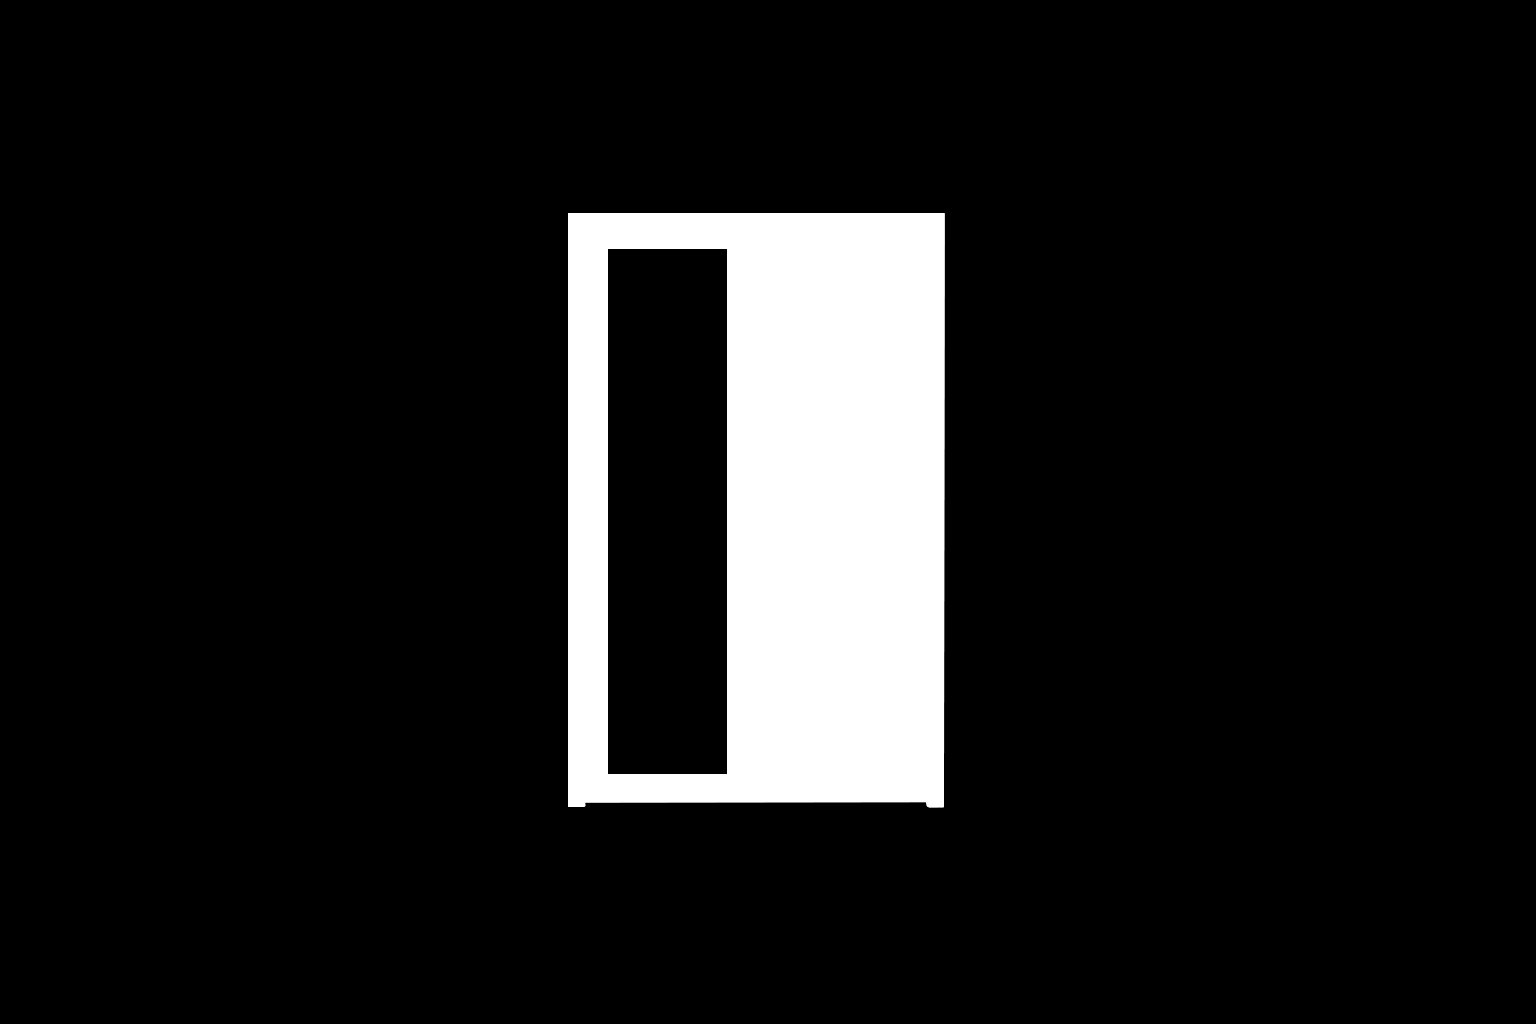
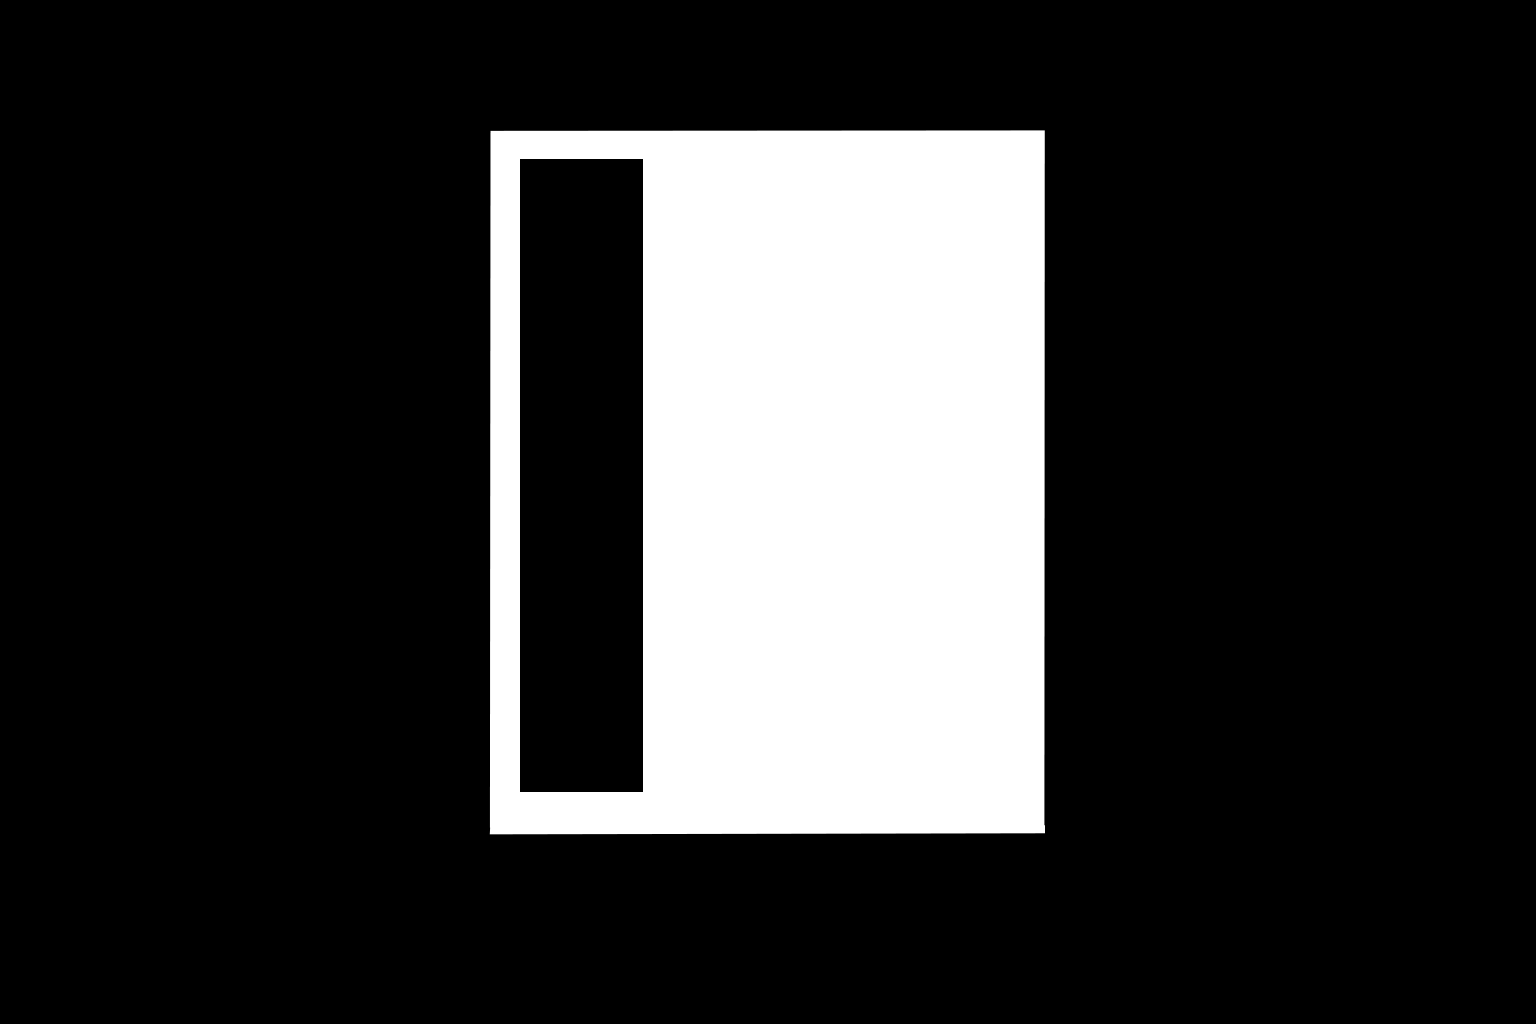
Updates to rendering mechanism and color comparer

Changed region(s): [[0.3125, 0.125, 0.6875, 0.8125]]

diff --git a/Services/ColorImageService.cs b/Services/ColorImageService.cs
@@ -16,7 +16,7 @@ public class ColorImageService : IColorImageService
     private readonly IWebHostEnvironment _env;
     private readonly string _cacheFolder;
     private readonly string _scenesFolder;
-    private static readonly string[] ValidScenes = ["front", "side", "terrace", "window", "front-door", "living-room"];
+    private static readonly string[] ValidScenes = ["front", "side", "terrace", "window", "front-door", "living-room", "entrance", "balcony"];
 
     public ColorImageService(IWebHostEnvironment env)
     {
@@ -62,75 +62,179 @@ public class ColorImageService : IColorImageService
         await GenerateSceneImageAsync(colorHex, scene, cachedPath);
         return cachedPath;
     }
+    
+    private static float SrgbToLinear(float c)
+{
+    // c in [0..1]
+    return (c <= 0.04045f) ? (c / 12.92f) : MathF.Pow((c + 0.055f) / 1.055f, 2.4f);
+}
 
-    private async Task GenerateSceneImageAsync(string colorHex, string scene, string outputPath)
+private static float LinearToSrgb(float c)
+{
+    // c in [0..1]
+    c = Math.Clamp(c, 0f, 1f);
+    return (c <= 0.0031308f) ? (12.92f * c) : (1.055f * MathF.Pow(c, 1f / 2.4f) - 0.055f);
+}
+
+private static (float r, float g, float b) ToLinearRgb(Rgba32 p)
+{
+    float r = SrgbToLinear(p.R / 255f);
+    float g = SrgbToLinear(p.G / 255f);
+    float b = SrgbToLinear(p.B / 255f);
+    return (r, g, b);
+}
+
+private static Rgba32 FromLinearRgb(float r, float g, float b, byte a)
+{
+    byte R = (byte)Math.Clamp(LinearToSrgb(r) * 255f, 0f, 255f);
+    byte G = (byte)Math.Clamp(LinearToSrgb(g) * 255f, 0f, 255f);
+    byte B = (byte)Math.Clamp(LinearToSrgb(b) * 255f, 0f, 255f);
+    return new Rgba32(R, G, B, a);
+}
+
+public async Task GenerateSceneImageAsync(string colorHex, string scene, string outputPath)
+{
+    var basePath = Path.Combine(_scenesFolder, scene, "render.jpg");
+    var maskPath = Path.Combine(_scenesFolder, scene, "mask.png");
+
+    if (!File.Exists(basePath) || !File.Exists(maskPath))
+        throw new FileNotFoundException($"Scene files not found for {scene}");
+
+    var targetRgb = ParseHexColor(colorHex);
+
+    // Neutral “base frame” reference color (your suggestion: #A7A7A7)
+    var neutralBase = ParseHexColor("#A7A7A7");
+
+    // Strength lets you dial back tinting (0..1). Start with 1, reduce if needed.
+    const float strength = 1.0f;
+
+    using var baseImage = await Image.LoadAsync<Rgba32>(basePath);
+    using var maskImage = await Image.LoadAsync<L8>(maskPath);
+
+    if (maskImage.Width != baseImage.Width || maskImage.Height != baseImage.Height)
+        maskImage.Mutate(x => x.Resize(baseImage.Width, baseImage.Height));
+
+    // Precompute linear target + linear neutral + tint ratio
+    var (tR, tG, tB) = (SrgbToLinear(targetRgb.R / 255f), SrgbToLinear(targetRgb.G / 255f), SrgbToLinear(targetRgb.B / 255f));
+    var (nR, nG, nB) = (SrgbToLinear(neutralBase.R / 255f), SrgbToLinear(neutralBase.G / 255f), SrgbToLinear(neutralBase.B / 255f));
+
+    // Avoid divide-by-zero
+    float ratioR = tR / MathF.Max(nR, 1e-6f);
+    float ratioG = tG / MathF.Max(nG, 1e-6f);
+    float ratioB = tB / MathF.Max(nB, 1e-6f);
+
+    baseImage.ProcessPixelRows(maskImage, (baseAccessor, maskAccessor) =>
     {
-        var basePath = Path.Combine(_scenesFolder, scene, "render.jpg");
-        var maskPath = Path.Combine(_scenesFolder, scene, "mask.png");
-
-        if (!File.Exists(basePath) || !File.Exists(maskPath))
+        for (int y = 0; y < baseAccessor.Height; y++)
         {
-            throw new FileNotFoundException($"Scene files not found for {scene}");
-        }
+            var baseRow = baseAccessor.GetRowSpan(y);
+            var maskRow = maskAccessor.GetRowSpan(y);
 
-        var targetRgb = ParseHexColor(colorHex);
-
-        using var baseImage = await Image.LoadAsync<Rgba32>(basePath);
-        using var maskImage = await Image.LoadAsync<L8>(maskPath);
-
-        if (maskImage.Width != baseImage.Width || maskImage.Height != baseImage.Height)
-        {
-            maskImage.Mutate(x => x.Resize(baseImage.Width, baseImage.Height));
-        }
-
-        // Simple multiply blend
-        baseImage.ProcessPixelRows(maskImage, (baseAccessor, maskAccessor) =>
-        {
-            for (int y = 0; y < baseAccessor.Height; y++)
+            for (int x = 0; x < baseRow.Length; x++)
             {
-                var baseRow = baseAccessor.GetRowSpan(y);
-                var maskRow = maskAccessor.GetRowSpan(y);
+                float m = maskRow[x].PackedValue / 255f;
+                if (m <= 0f) continue;
 
-                for (int x = 0; x < baseRow.Length; x++)
-                {
-                    var maskValue = maskRow[x].PackedValue / 255f;
+                // Optional: soften mask response a touch (helps avoid harsh dark edges)
+                // m = MathF.Pow(m, 0.9f);
 
-                    if (maskValue > 0)
-                    {
-                        ref var pixel = ref baseRow[x];
+                ref var px = ref baseRow[x];
 
-                        float baseR = pixel.R / 255f;
-                        float baseG = pixel.G / 255f;
-                        float baseB = pixel.B / 255f;
-                        float blendR = targetRgb.R / 255f;
-                        float blendG = targetRgb.G / 255f;
-                        float blendB = targetRgb.B / 255f;
+                // Work in linear
+                var (bR, bG, bB) = ToLinearRgb(px);
 
-                        // Multiply blend
-                        float newR = baseR * blendR;
-                        float newG = baseG * blendG;
-                        float newB = baseB * blendB;
+                // Tint by ratio (preserves lighting/highlights much better than multiply)
+                float tintedR = bR * ratioR;
+                float tintedG = bG * ratioG;
+                float tintedB = bB * ratioB;
 
-                        // Blend based on mask intensity
-                        pixel.R = (byte)Math.Clamp((pixel.R * (1 - maskValue) + newR * 255 * maskValue), 0, 255);
-                        pixel.G = (byte)Math.Clamp((pixel.G * (1 - maskValue) + newG * 255 * maskValue), 0, 255);
-                        pixel.B = (byte)Math.Clamp((pixel.B * (1 - maskValue) + newB * 255 * maskValue), 0, 255);
-                    }
-                }
+                // Blend by mask + strength
+                float k = Math.Clamp(m * strength, 0f, 1f);
+                float outR = bR + (tintedR - bR) * k;
+                float outG = bG + (tintedG - bG) * k;
+                float outB = bB + (tintedB - bB) * k;
+
+                px = FromLinearRgb(outR, outG, outB, px.A);
             }
-        });
-
-        var outputDir = Path.GetDirectoryName(outputPath);
-        if (!string.IsNullOrEmpty(outputDir) && !Directory.Exists(outputDir))
-        {
-            Directory.CreateDirectory(outputDir);
         }
+    });
 
-        await baseImage.SaveAsJpegAsync(outputPath, new SixLabors.ImageSharp.Formats.Jpeg.JpegEncoder
-        {
-            Quality = 85
-        });
-    }
+    var outputDir = Path.GetDirectoryName(outputPath);
+    if (!string.IsNullOrEmpty(outputDir) && !Directory.Exists(outputDir))
+        Directory.CreateDirectory(outputDir);
+
+    await baseImage.SaveAsJpegAsync(outputPath, new SixLabors.ImageSharp.Formats.Jpeg.JpegEncoder { Quality = 85 });
+}
+
+
+    // private async Task GenerateSceneImageAsync(string colorHex, string scene, string outputPath)
+    // {
+    //     var basePath = Path.Combine(_scenesFolder, scene, "render.jpg");
+    //     var maskPath = Path.Combine(_scenesFolder, scene, "mask.png");
+    //
+    //     if (!File.Exists(basePath) || !File.Exists(maskPath))
+    //     {
+    //         throw new FileNotFoundException($"Scene files not found for {scene}");
+    //     }
+    //
+    //     var targetRgb = ParseHexColor(colorHex);
+    //
+    //     using var baseImage = await Image.LoadAsync<Rgba32>(basePath);
+    //     using var maskImage = await Image.LoadAsync<L8>(maskPath);
+    //
+    //     if (maskImage.Width != baseImage.Width || maskImage.Height != baseImage.Height)
+    //     {
+    //         maskImage.Mutate(x => x.Resize(baseImage.Width, baseImage.Height));
+    //     }
+    //
+    //     // Simple multiply blend
+    //     baseImage.ProcessPixelRows(maskImage, (baseAccessor, maskAccessor) =>
+    //     {
+    //         for (int y = 0; y < baseAccessor.Height; y++)
+    //         {
+    //             var baseRow = baseAccessor.GetRowSpan(y);
+    //             var maskRow = maskAccessor.GetRowSpan(y);
+    //
+    //             for (int x = 0; x < baseRow.Length; x++)
+    //             {
+    //                 var maskValue = maskRow[x].PackedValue / 255f;
+    //
+    //                 if (maskValue > 0)
+    //                 {
+    //                     ref var pixel = ref baseRow[x];
+    //
+    //                     float baseR = pixel.R / 255f;
+    //                     float baseG = pixel.G / 255f;
+    //                     float baseB = pixel.B / 255f;
+    //                     float blendR = targetRgb.R / 255f;
+    //                     float blendG = targetRgb.G / 255f;
+    //                     float blendB = targetRgb.B / 255f;
+    //
+    //                     // Multiply blend
+    //                     float newR = baseR * blendR;
+    //                     float newG = baseG * blendG;
+    //                     float newB = baseB * blendB;
+    //
+    //                     // Blend based on mask intensity
+    //                     pixel.R = (byte)Math.Clamp((pixel.R * (1 - maskValue) + newR * 255 * maskValue), 0, 255);
+    //                     pixel.G = (byte)Math.Clamp((pixel.G * (1 - maskValue) + newG * 255 * maskValue), 0, 255);
+    //                     pixel.B = (byte)Math.Clamp((pixel.B * (1 - maskValue) + newB * 255 * maskValue), 0, 255);
+    //                 }
+    //             }
+    //         }
+    //     });
+    //
+    //     var outputDir = Path.GetDirectoryName(outputPath);
+    //     if (!string.IsNullOrEmpty(outputDir) && !Directory.Exists(outputDir))
+    //     {
+    //         Directory.CreateDirectory(outputDir);
+    //     }
+    //
+    //     await baseImage.SaveAsJpegAsync(outputPath, new SixLabors.ImageSharp.Formats.Jpeg.JpegEncoder
+    //     {
+    //         Quality = 85
+    //     });
+    // }
 
     private static Rgba32 ParseHexColor(string hex)
     {

diff --git a/Program.cs b/Program.cs
@@ -138,7 +138,7 @@ app.MapGet("/images/ral-scenes/{filename}.jpg", async (
     HttpContext context) =>
 {
     // Parse filename to extract slug and scene (e.g., "ral-1000-green-beige-front" -> slug + "front")
-    var validScenes = new[] { "front", "side", "terrace", "window", "front-door", "living-room" };
+    var validScenes = new[] { "front", "side", "terrace", "window", "front-door", "living-room", "entrance", "balcony" };
     string? scene = null;
     string? slug = null;
 
